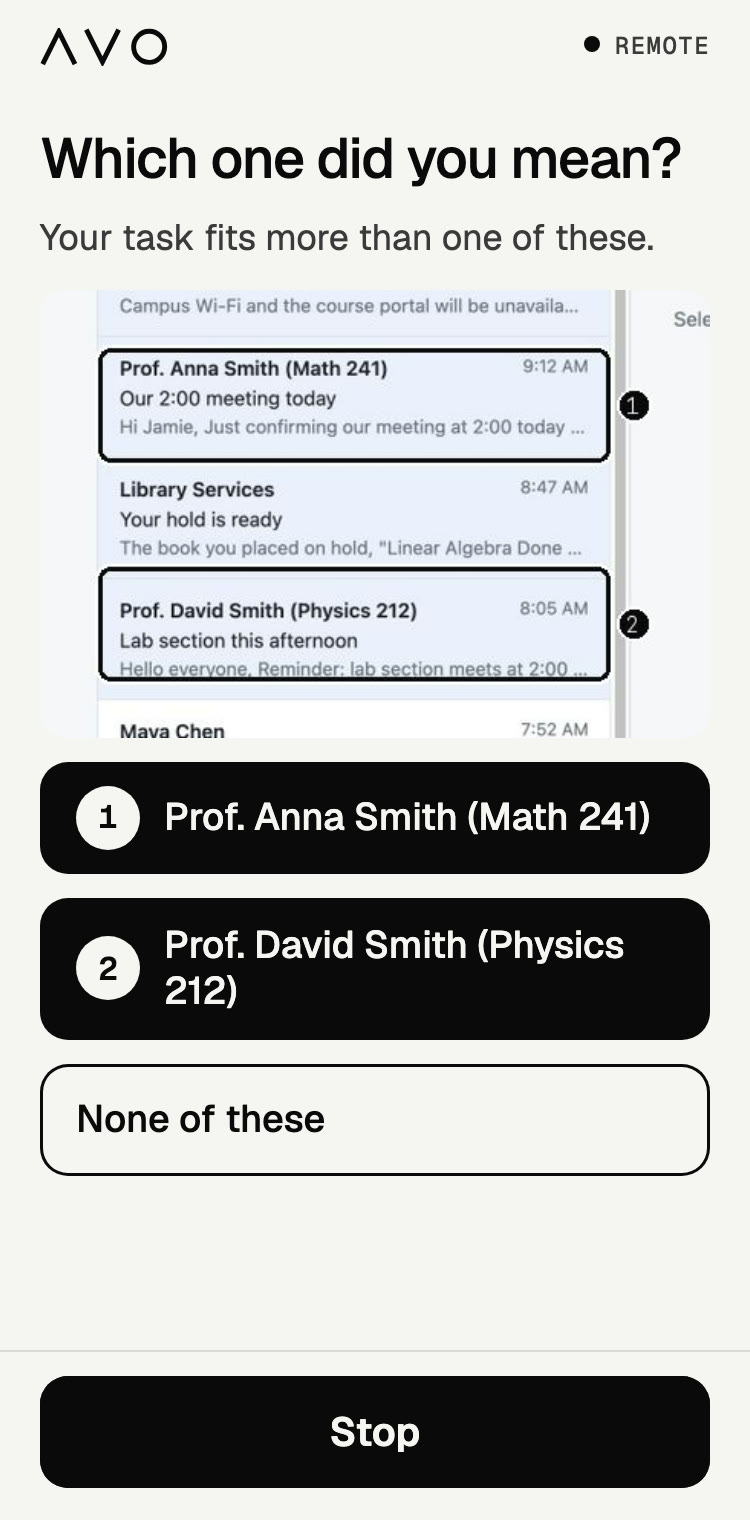
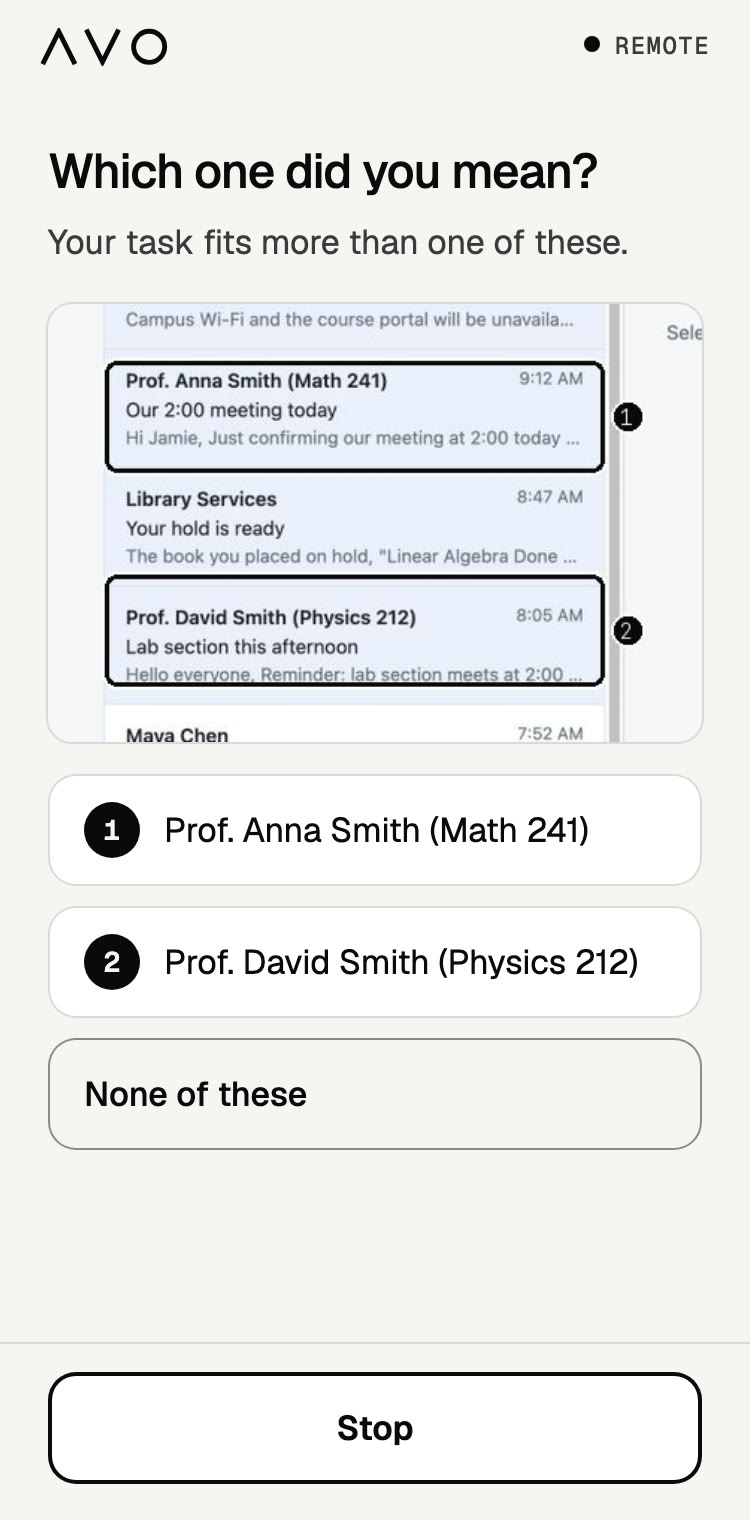
Site: sourced figures under the story; lighter phone page (and its screenshots)

diff --git a/remote/remote.css b/remote/remote.css
@@ -9,7 +9,7 @@ body {
   flex-direction: column;
   background: var(--avo-paper);
   color: var(--avo-ink);
-  font: 400 18px/1.45 var(--avo-font-sans);
+  font: 400 17px/1.5 var(--avo-font-sans);
 }
 header { display: flex; align-items: center; justify-content: space-between; padding: max(14px, env(safe-area-inset-top)) 20px 10px; }
 .logo { width: 64px; height: auto; }
@@ -17,7 +17,7 @@ header { display: flex; align-items: center; justify-content: space-between; pad
 .link::before { content: ""; display: inline-block; width: 8px; height: 8px; margin-right: 7px; border-radius: 50%; background: var(--avo-gray-3); vertical-align: 1px; }
 body.live .link::before { background: var(--avo-ink); }
 
-main { flex: 1; padding: 8px 20px 24px; }
+main { flex: 1; padding: 12px 24px 32px; }
 section { display: none; }
 body[data-view="unpaired"] [data-for="unpaired"],
 body[data-view="connecting"] [data-for="connecting"],
@@ -29,7 +29,7 @@ body[data-view="paused"] [data-for="paused"],
 body[data-view="done"] [data-for="done"],
 body[data-view="failed"] [data-for="failed"] { display: block; }
 
-h1 { margin: 12px 0 10px; font-size: 28px; line-height: 1.2; font-weight: 500; letter-spacing: -0.02em; text-wrap: balance; overflow-wrap: anywhere; }
+h1 { margin: 16px 0 8px; font-size: 24px; line-height: 1.25; font-weight: 500; letter-spacing: -0.02em; text-wrap: balance; overflow-wrap: anywhere; }
 p { margin: 0 0 12px; }
 .muted { color: var(--avo-gray-2); }
 .label { display: block; margin: 8px 0 8px; font: 500 13px var(--avo-font-mono); letter-spacing: 0.04em; color: var(--avo-gray-2); }
@@ -38,11 +38,11 @@ p { margin: 0 0 12px; }
 
 textarea, input {
   width: 100%;
-  border: 1.5px solid var(--avo-ink);
+  border: 1px solid var(--avo-gray-3);
   border-radius: 14px;
   background: #fff;
   color: var(--avo-ink);
-  font: 400 20px/1.4 var(--avo-font-sans);
+  font: 400 18px/1.45 var(--avo-font-sans);
   padding: 14px 16px;
 }
 textarea { resize: none; min-height: 120px; }
@@ -55,21 +55,24 @@ button {
   gap: 12px;
   width: 100%;
   min-height: 56px;
-  margin-top: 12px;
+  margin-top: 14px;
   padding: 12px 18px;
   border: 0;
   border-radius: 14px;
-  font: 500 19px/1.25 var(--avo-font-sans);
+  font: 500 17px/1.3 var(--avo-font-sans);
   text-align: left;
   cursor: pointer;
   -webkit-tap-highlight-color: transparent;
 }
 button:active { transform: scale(0.985); }
 .primary { background: var(--avo-ink); color: var(--avo-paper); }
-.secondary { background: transparent; color: var(--avo-ink); box-shadow: inset 0 0 0 1.5px var(--avo-ink); }
-.choices { margin-top: 8px; }
+.secondary { background: transparent; color: var(--avo-ink); box-shadow: inset 0 0 0 1px var(--avo-gray-3); }
+.pick { background: #fff; color: var(--avo-ink); box-shadow: inset 0 0 0 1px var(--avo-gray-4); font-weight: 400; }
+.pick kbd { background: var(--avo-ink) !important; color: var(--avo-paper) !important; }
+.choices { margin-top: 16px; }
+.choices button { margin-top: 10px; }
 .choices button { justify-content: flex-start; }
-.choices kbd { flex: none; display: grid; place-items: center; width: 32px; height: 32px; border-radius: 50%; background: var(--avo-paper); color: var(--avo-ink); font: 600 16px var(--avo-font-mono); }
+.choices kbd { flex: none; display: grid; place-items: center; width: 28px; height: 28px; border-radius: 50%; background: var(--avo-paper); color: var(--avo-ink); font: 600 14px var(--avo-font-mono); }
 .choices .secondary kbd { background: var(--avo-ink); color: var(--avo-paper); }
 .choices button span { flex: 1; }
 
@@ -84,7 +87,7 @@ button:active { transform: scale(0.985); }
 .run i.go { animation: runout var(--secs, 2s) linear forwards; }
 @keyframes runout { to { transform: scaleX(0); } }
 
-#askShot { display: block; width: 100%; height: auto; margin: 12px 0 4px; border-radius: 12px; background: #fff; }
+#askShot { display: block; width: 100%; height: auto; margin: 18px 0 4px; border-radius: 12px; background: #fff; box-shadow: 0 0 0 1px var(--avo-gray-4); }
 .preview {
   max-height: 42dvh;
   overflow: auto;
@@ -93,15 +96,15 @@ button:active { transform: scale(0.985); }
   border-radius: 14px;
   background: #fff;
   box-shadow: inset 0 0 0 1px var(--avo-gray-4);
-  font: 400 16px/1.5 var(--avo-font-sans);
+  font: 400 15px/1.6 var(--avo-font-sans);
   white-space: pre-wrap;
   overflow-wrap: anywhere;
 }
 .check { width: 72px; height: 72px; margin-top: 24px; }
 
-footer { position: sticky; bottom: 0; padding: 12px 20px max(16px, env(safe-area-inset-bottom)); background: var(--avo-paper); box-shadow: 0 -1px 0 var(--avo-gray-4); }
-.stop { margin: 0; justify-content: center; background: #fff; color: var(--avo-ink); box-shadow: inset 0 0 0 2px var(--avo-ink); font-weight: 600; font-size: 20px; }
-body.busy .stop { background: var(--avo-ink); color: var(--avo-paper); }
+footer { position: sticky; bottom: 0; padding: 14px 24px max(18px, env(safe-area-inset-bottom)); background: var(--avo-paper); box-shadow: 0 -1px 0 var(--avo-gray-4); }
+.stop { margin: 0; justify-content: center; background: #fff; color: var(--avo-ink); box-shadow: inset 0 0 0 1.5px var(--avo-ink); font-weight: 600; font-size: 17px; }
+body.busy .stop { box-shadow: inset 0 0 0 2px var(--avo-ink); }
 
 @media (prefers-reduced-motion: reduce) {
   .bar i { transition: none; }

diff --git a/site/index.html b/site/index.html
@@ -9,7 +9,7 @@
     <link rel="icon" href="favicon.svg" type="image/svg+xml" />
     <link rel="preload" href="brand/fonts/Geist-Variable.woff2" as="font" type="font/woff2" crossorigin />
     <link rel="stylesheet" href="brand/tokens.css" />
-    <link rel="stylesheet" href="assets/site.css?v=202611021728" />
+    <link rel="stylesheet" href="assets/site.css?v=202611021856" />
     <script>
       // Play the opening once per visit, and never with "reduce motion" on.
       // The failsafe drops it if the scripts below never run.
@@ -24,7 +24,7 @@
       })();
     </script>
     <script src="brand/logo-animated.js" defer></script>
-    <script src="assets/site.js?v=202611021728" defer></script>
+    <script src="assets/site.js?v=202611021856" defer></script>
   </head>
   <body>
     <div id="intro" aria-hidden="true"></div>
@@ -194,9 +194,9 @@
             <p class="lede">Hands busy, or the computer’s across the room? Tell AVO from your phone. When it needs you, the part of the screen it’s asking about comes to you.</p>
           </div>
           <div class="phones">
-            <figure class="phone"><img src="media/remote-idle.jpg?v=202611021711" width="750" height="1520" loading="lazy" alt="The phone page: a box for the task, Send to AVO, and a Stop button." /><figcaption>Say it, or type it</figcaption></figure>
-            <figure class="phone"><img src="media/remote-ask.jpg?v=202611021711" width="750" height="1520" loading="lazy" alt="The phone shows just the part of the Mac’s screen with the two Professor Smiths circled and numbered, and a big button for each." /><figcaption>Only the part it’s asking about</figcaption></figure>
-            <figure class="phone"><img src="media/remote-confirm.jpg?v=202611021711" width="750" height="1520" loading="lazy" alt="The phone shows the reply before sending, with Yes, send and No." /><figcaption>Nothing irreversible without your yes</figcaption></figure>
+            <figure class="phone"><img src="media/remote-idle.jpg?v=202611021856" width="750" height="1520" loading="lazy" alt="The phone page: a box for the task, Send to AVO, and a Stop button." /><figcaption>Say it, or type it</figcaption></figure>
+            <figure class="phone"><img src="media/remote-ask.jpg?v=202611021856" width="750" height="1520" loading="lazy" alt="The phone shows just the part of the Mac’s screen with the two Professor Smiths circled and numbered, and a big button for each." /><figcaption>Only the part it’s asking about</figcaption></figure>
+            <figure class="phone"><img src="media/remote-confirm.jpg?v=202611021856" width="750" height="1520" loading="lazy" alt="The phone shows the reply before sending, with Yes, send and No." /><figcaption>Nothing irreversible without your yes</figcaption></figure>
           </div>
           <p class="aside-note">Same Wi‑Fi only · pair with a QR code · stops if the phone disconnects. <a href="docs.html#remote">How it works</a></p>
           <p class="thesis">Built for people for whom every click costs. Useful to anyone whose hands are busy.</p>
@@ -343,6 +343,14 @@
             <p>Writing software with one hand was frightening. Two things stayed with me. For many people, this is every day. And there has to be a better way for people and AI to work a computer together.</p>
             <p class="sign">— Bowen</p>
           </div>
+        </div>
+        <div class="wrap">
+          <div class="facts">
+            <div><b>1 in 4</b><p>working-age adults has some difficulty with dexterity; 7% have a severe one.</p><a href="https://www.microsoft.com/download/details.aspx?id=18446">Forrester Research for Microsoft, 2003</a></div>
+            <div><b>25.7 million</b><p>US adults are limited in their daily activities by arthritis.</p><a href="https://www.ncbi.nlm.nih.gov/pmc/articles/PMC8519273/">CDC, MMWR, 2016–2018 data</a></div>
+            <div><b>About 7 million</b><p>Americans may have essential tremor, which most often shakes the hands.</p><a href="https://pmc.ncbi.nlm.nih.gov/articles/PMC4137360">Louis &amp; Ottman, 2014 (an estimate)</a></div>
+          </div>
+          <p class="aside-note facts-note">US figures, from the sources linked under each.</p>
         </div>
       </section>
 

diff --git a/remote/app.js b/remote/app.js
@@ -179,11 +179,11 @@
     } else if (m.kind === "clarify") {
       $("#askTitle").textContent = m.question || "Which did you mean?";
       $("#askText").textContent = m.intent || "";
-      (m.options || []).forEach((o, i) => list.append(choice(o, "primary", () => answer({ choice: "pick", index: i }), i + 1)));
+      (m.options || []).forEach((o, i) => list.append(choice(o, "pick", () => answer({ choice: "pick", index: i }), i + 1)));
     } else if (m.candidates) {
       $("#askTitle").textContent = "Which one did you mean?";
       $("#askText").textContent = m.intent || "";
-      m.candidates.forEach((c, i) => list.append(choice(c.label, "primary", () => answer({ choice: "pick", index: i }), i + 1)));
+      m.candidates.forEach((c, i) => list.append(choice(c.label, "pick", () => answer({ choice: "pick", index: i }), i + 1)));
       list.append(choice("None of these", "secondary", () => {
         $("#noneBox").hidden = false;
         $("#noneText").focus();

diff --git a/site/assets/site.css b/site/assets/site.css
@@ -592,3 +592,10 @@ section.tight { padding: 56px 0 72px; }
 /* numbers written in from eval.json are inline wherever they sit */
 span[data-eval] { display: inline !important; margin: 0 !important; font: inherit !important; color: inherit !important; letter-spacing: inherit !important; }
 .strip .ss a { display: inline; border: 0; padding: 0; margin: 0; }
+.facts { display: grid; grid-template-columns: repeat(3, 1fr); gap: 32px; margin-top: 56px; }
+.facts > div { border-top: 1px solid var(--avo-ink); padding-top: 18px; }
+.facts b { display: block; font: 500 clamp(28px, 3vw, 40px)/1.05 var(--avo-font-sans); letter-spacing: -0.03em; }
+.facts p { margin: 10px 0 0; font-size: 16px; line-height: 1.5; color: var(--avo-gray-2); }
+.facts a { display: inline-block; margin-top: 10px; font: 500 12px var(--avo-font-mono); color: #66665f; }
+.facts-note { margin-top: 20px; }
+@media (max-width: 860px) { .facts { grid-template-columns: 1fr; gap: 24px; margin-top: 40px; } }

diff --git a/site/docs.html b/site/docs.html
@@ -9,9 +9,9 @@
     <link rel="icon" href="favicon.svg" type="image/svg+xml" />
     <link rel="preload" href="brand/fonts/Geist-Variable.woff2" as="font" type="font/woff2" crossorigin />
     <link rel="stylesheet" href="brand/tokens.css" />
-    <link rel="stylesheet" href="assets/site.css?v=202611021728" />
+    <link rel="stylesheet" href="assets/site.css?v=202611021856" />
     <script src="brand/logo-animated.js" defer></script>
-    <script src="assets/site.js?v=202611021728" defer></script>
+    <script src="assets/site.js?v=202611021856" defer></script>
   </head>
   <body>
     <header class="nav">
